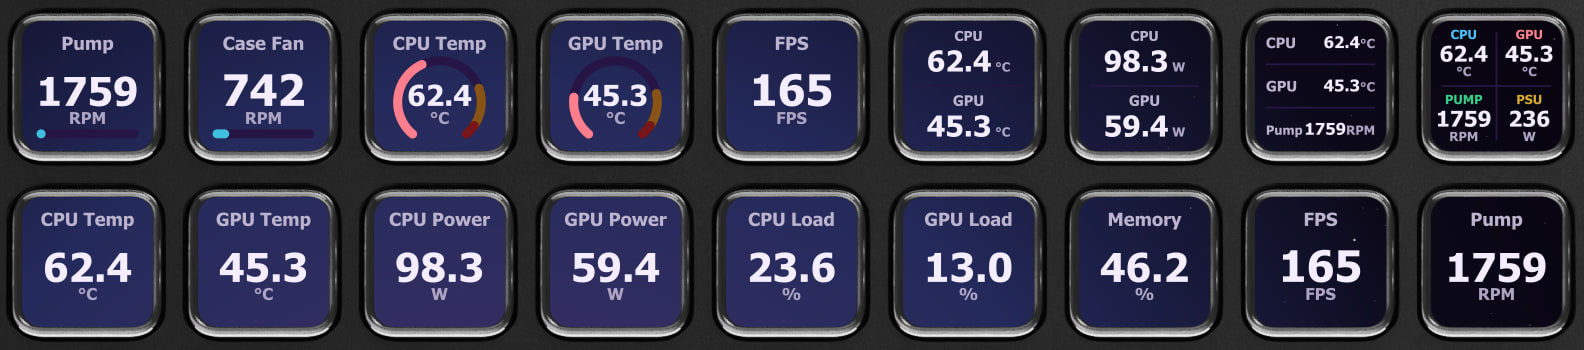
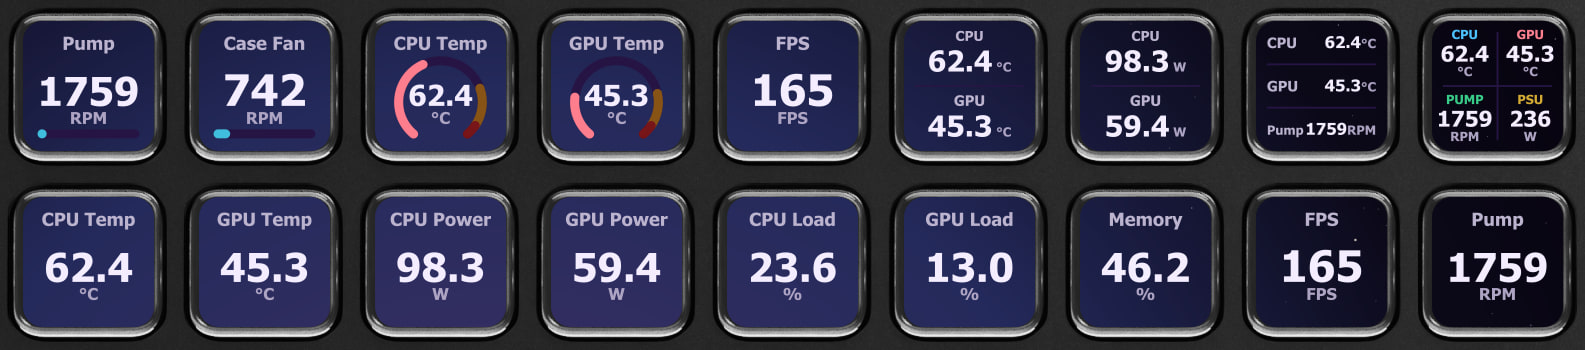
docs: preview docs-fbfff8f37f65 from fbfff8f37f657ca3a0784667c4a7e9fdb0f1db3e

diff --git a/assets/css/docs.css b/assets/css/docs.css
@@ -216,9 +216,12 @@ html:not(.docs-js) .hero-gallery figure + figure { margin-top: 28px; }
 .showcase-image { height: 180px; width: 100%; background: #0b0d10; display: flex; align-items: center; justify-content: center; padding: 12px; border: 1px solid var(--line-soft); border-radius: var(--radius); }
 .showcase-image picture { display: contents; }
 .showcase-image img { width: auto; height: auto; max-height: 100%; max-width: 100%; border-radius: 0; }
-/* A close-up fills its tile edge to edge; a narrower tile keeps the middle of it. */
-.showcase-image.fills { padding: 0; overflow: hidden; }
+/* A close-up of keys fills its tile's height on the device's own grey. The picture starts mid-gap and one key pitch is 50.314% of its height (176.1 of 350 px, scripts/lib/boards-18.ts), so the tile keeps as many whole keys as fit and never cuts one. */
+.showcase-image.fills { padding: 0; overflow: hidden; background: #292929; container-type: size; }
 .showcase-image.fills img { width: 100%; height: 100%; max-height: none; max-width: none; object-fit: cover; }
+@supports (width: round(down, 100cqw, 1cqh)) {
+	.showcase-image.fills img { width: round(down, 100cqw, 50.314cqh); object-position: left center; -webkit-mask-image: linear-gradient(90deg, transparent, #000 4px, #000 calc(100% - 4px), transparent); mask-image: linear-gradient(90deg, transparent, #000 4px, #000 calc(100% - 4px), transparent); }
+}
 .showcase-grid figcaption { margin-top: 16px; }
 .main-content .showcase-grid h3 { font-size: 17px !important; margin: 0 0 6px; }
 .showcase-grid h3 a { color: var(--ink); text-decoration: none; display: flex; justify-content: space-between; }

diff --git a/index.md b/index.md
@@ -77,11 +77,11 @@ description: Live HWiNFO temperatures, clocks, fan speeds and power on your Stre
       <figcaption><h3><a href="{{ '/strip-display.html' | relative_url }}">Strip display <span aria-hidden="true">→</span></a></h3><p>One graph across the touch strip, or two side by side.<br><span class="capture-type">Sample rendering. Stream Deck + / + XL. New in 1.8.</span></p></figcaption>
     </figure>
     <figure>
-      <a class="image-link showcase-image fills" data-image-viewer href="{{ '/assets/img/deck-dusk-1.8.jpg' | relative_url }}" aria-label="Enlarge deck background example" data-image-credit="Device image: Elgato."><img src="{{ '/assets/img/showcase/deck-backgrounds-detail.jpg' | relative_url }}" width="1584" height="350" loading="lazy" decoding="async" alt="Two rows of Stream Deck + XL keys, close up, on Background Dusk: one blue-violet glow runs from key to key behind the readings."></a>
+      <a class="image-link showcase-image fills" data-image-viewer href="{{ '/assets/img/deck-dusk-1.8.jpg' | relative_url }}" aria-label="Enlarge deck background example" data-image-credit="Device image: Elgato."><img src="{{ '/assets/img/showcase/deck-backgrounds-detail.jpg' | relative_url }}" width="1585" height="350" loading="lazy" decoding="async" alt="Two rows of Stream Deck + XL keys, close up, on Background Dusk: one blue-violet glow runs from key to key behind the readings."></a>
       <figcaption><h3><a href="{{ '/themes.html#deck-backgrounds-stars-dusk-and-nebula' | relative_url }}">Deck backgrounds <span aria-hidden="true">→</span></a></h3><p>Stars, Dusk or Nebula: one picture the plugin draws across the deck.<br><span class="capture-type">Dusk, close up. Sample rendering on Elgato&#x27;s device image. New in 1.8.</span></p></figcaption>
     </figure>
     <figure>
-      <a class="image-link showcase-image fills" data-image-viewer href="{{ '/assets/img/deck-cliffs-1.8.jpg' | relative_url }}" aria-label="Enlarge key background example" data-image-credit="Cosmic Cliffs: NASA, ESA, CSA, and STScI. Cropped to the display. Device image: Elgato." data-image-credit-url="https://esawebb.org/images/weic2205a/" data-image-license="CC BY 4.0 (Cosmic Cliffs)" data-image-license-url="https://creativecommons.org/licenses/by/4.0/"><img src="{{ '/assets/img/showcase/key-backgrounds-detail.jpg' | relative_url }}" width="1584" height="350" loading="lazy" decoding="async" alt="Two rows of Stream Deck + XL keys, close up, on Tint over the Cosmic Cliffs: the picture's sky and cliffs carry on from key to key behind the readings."></a>
+      <a class="image-link showcase-image fills" data-image-viewer href="{{ '/assets/img/deck-cliffs-1.8.jpg' | relative_url }}" aria-label="Enlarge key background example" data-image-credit="Cosmic Cliffs: NASA, ESA, CSA, and STScI. Cropped to the display. Device image: Elgato." data-image-credit-url="https://esawebb.org/images/weic2205a/" data-image-license="CC BY 4.0 (Cosmic Cliffs)" data-image-license-url="https://creativecommons.org/licenses/by/4.0/"><img src="{{ '/assets/img/showcase/key-backgrounds-detail.jpg' | relative_url }}" width="881" height="350" loading="lazy" decoding="async" alt="Two rows of Stream Deck + XL keys, close up, on Tint over the Cosmic Cliffs: the picture's sky and cliffs carry on from key to key behind the readings."></a>
       <figcaption><h3><a href="{{ '/sensor-reading.html#background' | relative_url }}">Key backgrounds <span aria-hidden="true">→</span></a></h3><p>Your page picture, behind each key.<br><span class="capture-type">Tint, close up. Sample rendering on Elgato&#x27;s device image. New in 1.8. Cosmic Cliffs: <a href="https://esawebb.org/images/weic2205a/">NASA, ESA, CSA, and STScI</a>, <a href="https://creativecommons.org/licenses/by/4.0/">CC BY 4.0</a>; cropped.</span></p></figcaption>
     </figure>
   </div>

diff --git a/README.md b/README.md
@@ -1,13 +1,13 @@
 # Documentation preview
 
-Complete documentation staged from [843d67a032881664c1780bce014fb1ed30db27cc](https://github.com/slawrensen/hwinfo-streamdeck/commit/843d67a032881664c1780bce014fb1ed30db27cc).
+Complete documentation staged from [fbfff8f37f657ca3a0784667c4a7e9fdb0f1db3e](https://github.com/slawrensen/hwinfo-streamdeck/commit/fbfff8f37f657ca3a0784667c4a7e9fdb0f1db3e).
 
 Preview: https://docs.slawrensen.com/hwinfo-streamdeck-preview/
 
 Production: https://docs.slawrensen.com/hwinfo-streamdeck/
 
-Build ID: docs-843d67a03288
+Build ID: docs-fbfff8f37f65
 
-Previous preview commit: 284aa02bd5e886fe3ba9f897789a32792d1908d7
+Previous preview commit: 20de470e8e12a884be1526bae2486cdd60bcca7f
 
 Source package version: 1.8.0. The website preview identity is separate from plugin release status; verify releases before making a stable-version claim.
